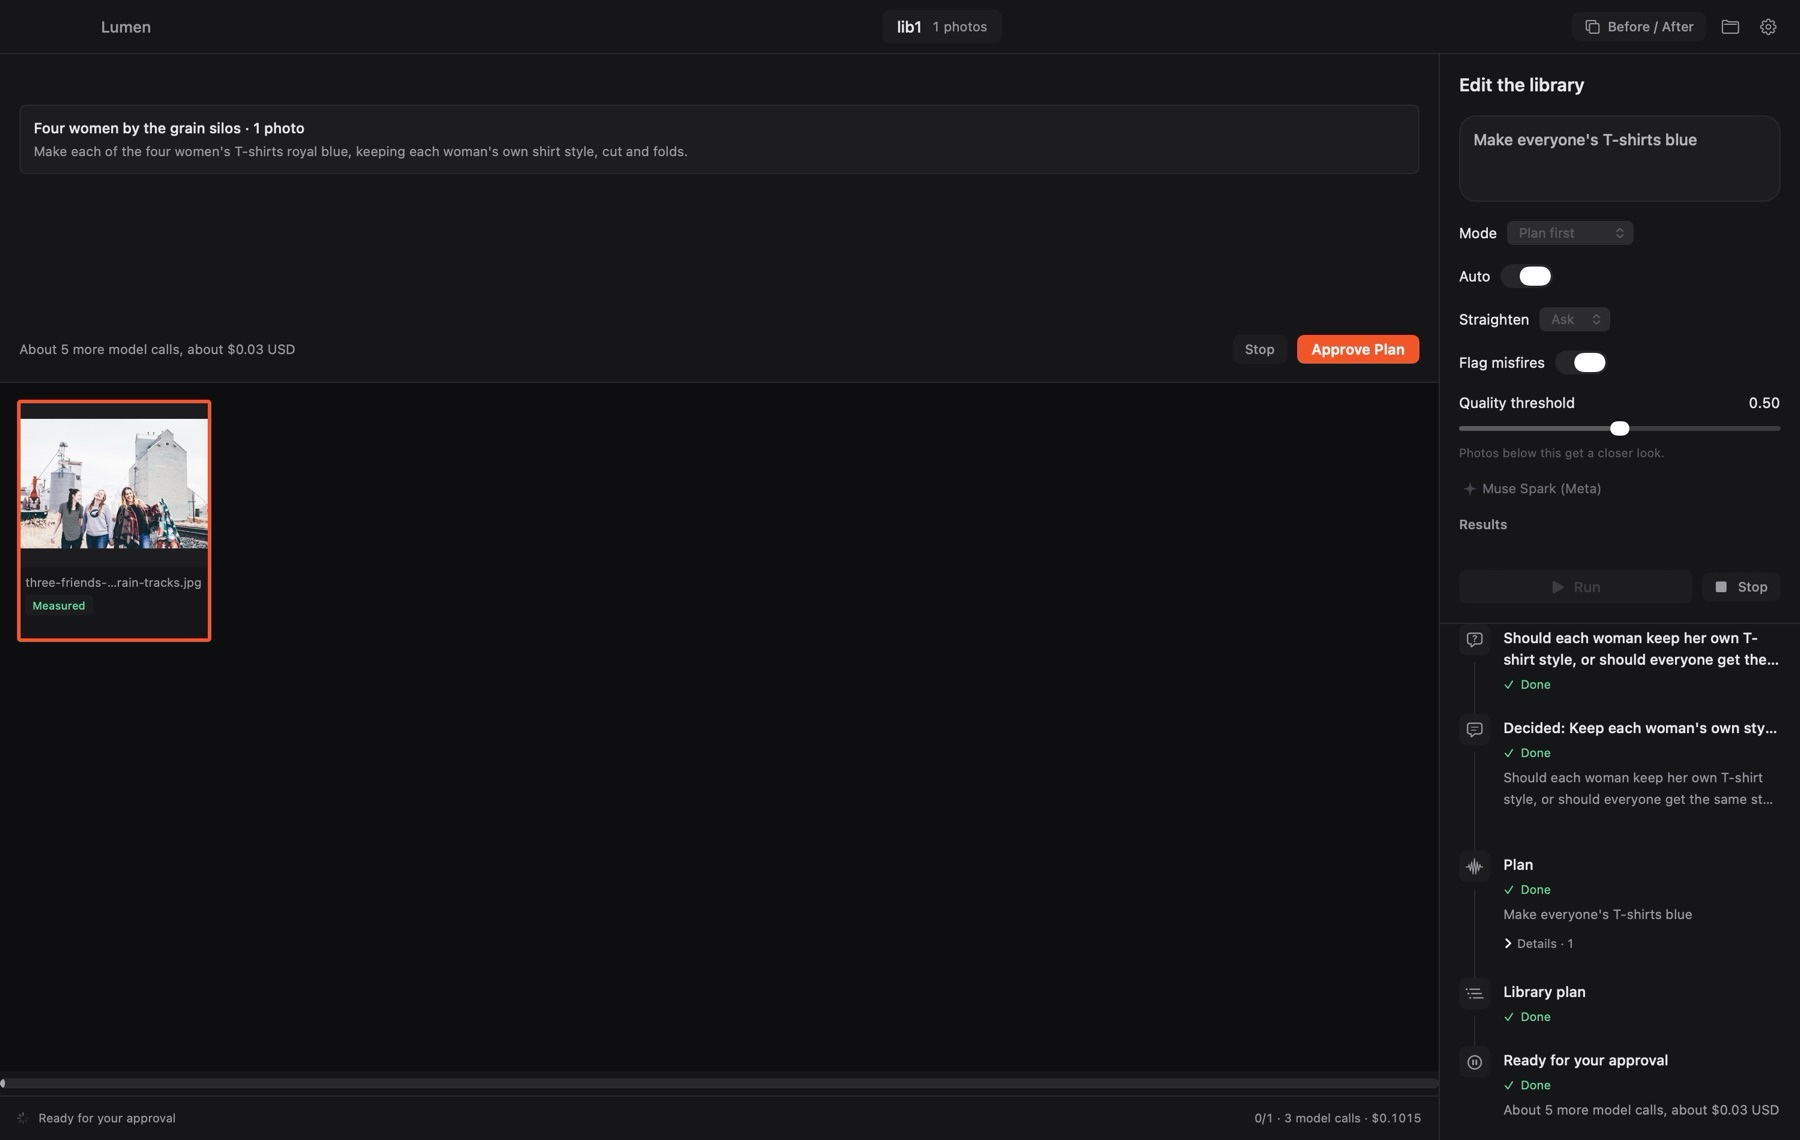
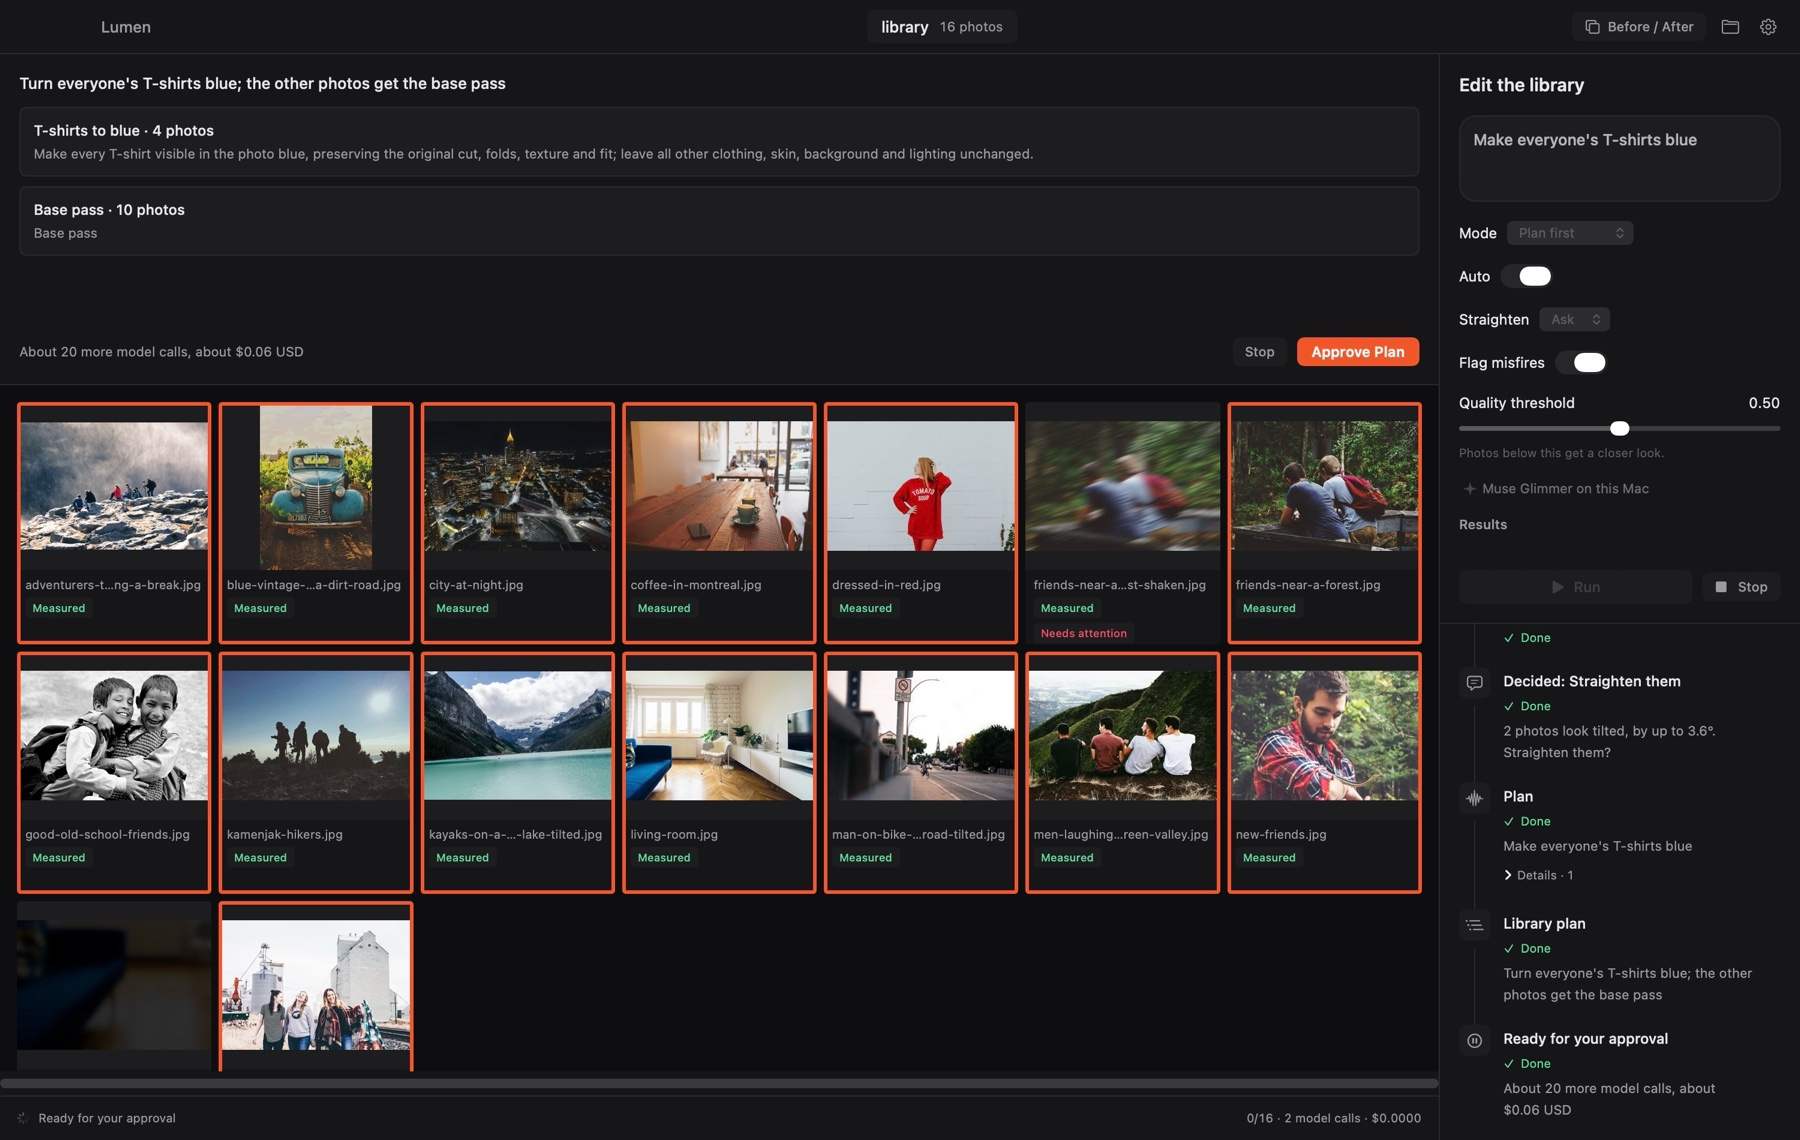
Show the library's question and plan as they are now, planned on Muse Glimmer
The screenshots showed three photos to straighten (the café among them) over six highlighted, and a one-photo library as "1 photos". They are retaken on the 16-photo library with Muse Glimmer on this Mac, at no cost: two tilted photos, highlighted, and the plan across all 16. The results path is left out as before. The open-weights notes record the café's wrong straightening and its fix.

Refs #74
Refs #76

diff --git a/docs/open-weights.md b/docs/open-weights.md
@@ -117,9 +117,9 @@ Lumen Studio's library reviews its contact sheets and plans its groups with the 
 - **The review ran out of time.** A constrained review of 16 photos ran to 4,560 written tokens: 485 s at 9.4 tokens/s, with Photoeditor's QA sweep sharing the GPU. A review now has 1,200 s and a plan or critique 600 s, where the hosted planners keep 180 s ([#71](https://github.com/mikheilkuzmidi/lumen/issues/71)).
 - **One failed review failed every photo in it.** Now those photos are judged by measurement, as with no reviewer, and each notes why; they still get their base pass ([#69](https://github.com/mikheilkuzmidi/lumen/issues/69)).
 
-With the nested schema, the run finished in 22 minutes, all on the Mac at no cost. Glimmer described each photo correctly and flagged both misfires, the shaken frame ("motion blur, subject smeared") and the pocket shot ("severely underexposed near-black frame"). The other 14 got Auto, and the three measured as tilted were straightened. The run's first review attempt hit the 600 s limit then in place, and the retry answered from the cached prompt.
+With the nested schema, the run finished in 22 minutes, all on the Mac at no cost. Glimmer described each photo correctly and flagged both misfires, the shaken frame ("motion blur, subject smeared") and the pocket shot ("severely underexposed near-black frame"). The other 14 got Auto, and the three measured as tilted were straightened: the lake, the street and, wrongly, the café, whose converging verticals read as a roll ([#74](https://github.com/mikheilkuzmidi/lumen/issues/74)). The run's first review attempt hit the 600 s limit then in place, and the retry answered from the cached prompt.
 
-Run again on the final code with nothing else using the GPU, the review answered at the first attempt: 4,919 tokens in 405 s, at 12.8 tokens/s. The whole library took 6.8 minutes, with the same flags, Auto and straightening.
+Run again with nothing else using the GPU, the review answered at the first attempt: 4,919 tokens in 405 s, at 12.8 tokens/s, and the whole library took 6.8 minutes. After the café's fix, the library asked about two tilted photos and straightened only the lake and the street; that review wrote 6,518 tokens in 567 s.
 
 ## What was verified
 

diff --git a/docs/studio.md b/docs/studio.md
@@ -79,9 +79,9 @@ Selection and redraw snapshots are omitted when the plan never reaches those eve
 
 ## Library window
 
-![The Library window after Muse Spark's review: every photo measured, two flagged for attention, and the one question that is yours to decide (straighten three tilted photos?), with a recommendation](images/studio-library-question.jpg)
+![The Library window after Muse Glimmer's review on this Mac: every photo measured, two flagged for attention, and the one question that is yours to decide (straighten the two tilted photos, highlighted?), with a recommendation](images/studio-library-question.jpg)
 
-![The Library window in plan-first mode: Muse Wonder's plan for "Make everyone's T-shirts blue", its photo highlighted, the estimate, and Stop or Approve Plan](images/studio-library-plan.jpg)
+![The Library window in plan-first mode: Muse Glimmer's plan for "Make everyone's T-shirts blue" across 16 photos, the photos it covers highlighted, the estimate, and Stop or Approve Plan](images/studio-library-plan.jpg)
 
 Choose **File › Open Folder…** (⇧⌘O), or drop a folder on a Studio window. Each folder opens its own Library window. Lumen lists JPEG, PNG and HEIC photos directly in that folder. The grid loads thumbnails as they become visible and keeps a bounded image cache, including for libraries of 1,000 photos.
 

diff --git a/README.md b/README.md
@@ -58,7 +58,7 @@ There are three modes:
 
 Results are written to a separate folder with a sidecar per photo, a summary of every answer and who gave it, and before and after contact sheets. The originals are never written. Lumen Studio has the same flow in its Library window (File › Open Folder).
 
-![Lumen Studio's Library after Muse Spark's review: every photo measured, two flagged for attention, and the one question that is yours to decide (straighten three tilted photos?), with a recommendation](docs/images/studio-library-question.jpg)
+![Lumen Studio's Library after Muse Glimmer's review on this Mac: every photo measured, two flagged for attention, and the one question that is yours to decide (straighten the two tilted photos, highlighted?), with a recommendation](docs/images/studio-library-question.jpg)
 
 ## Models
 
